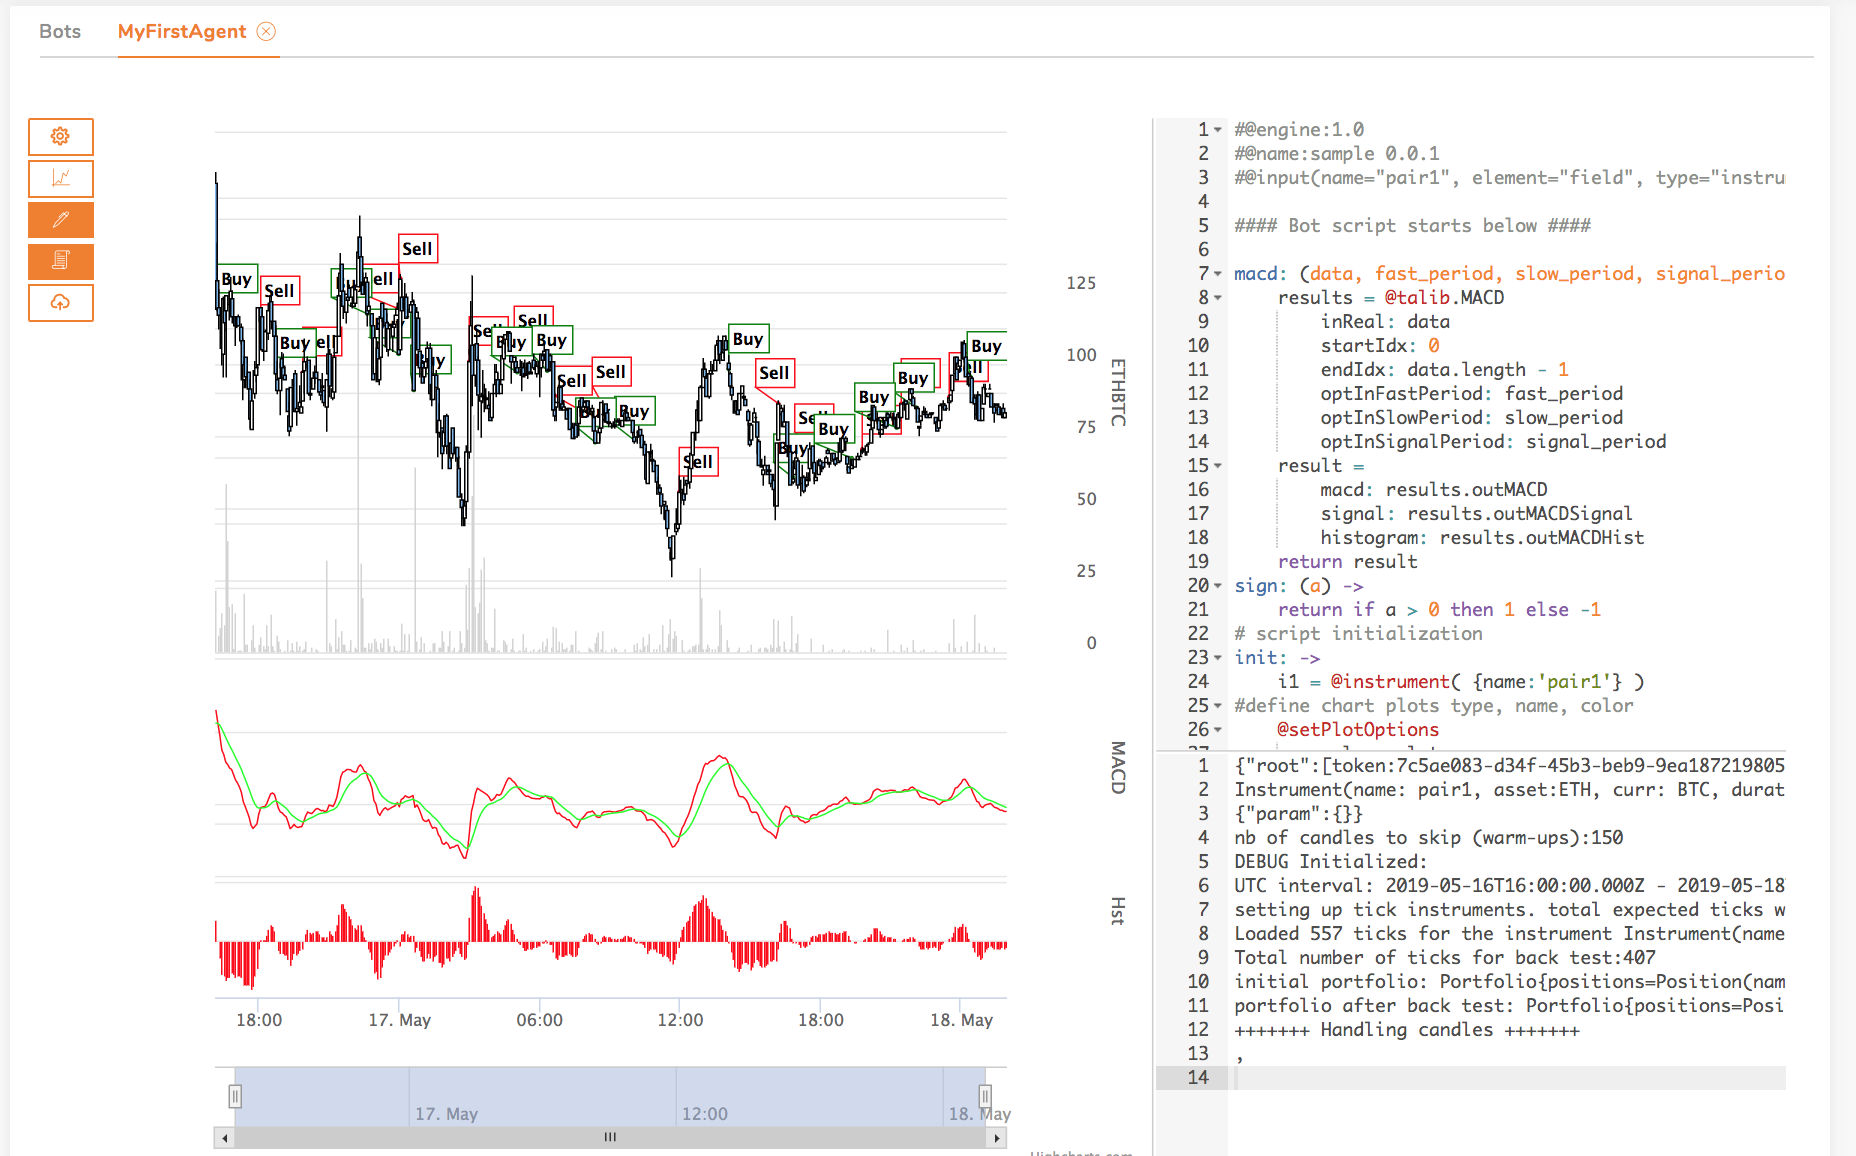
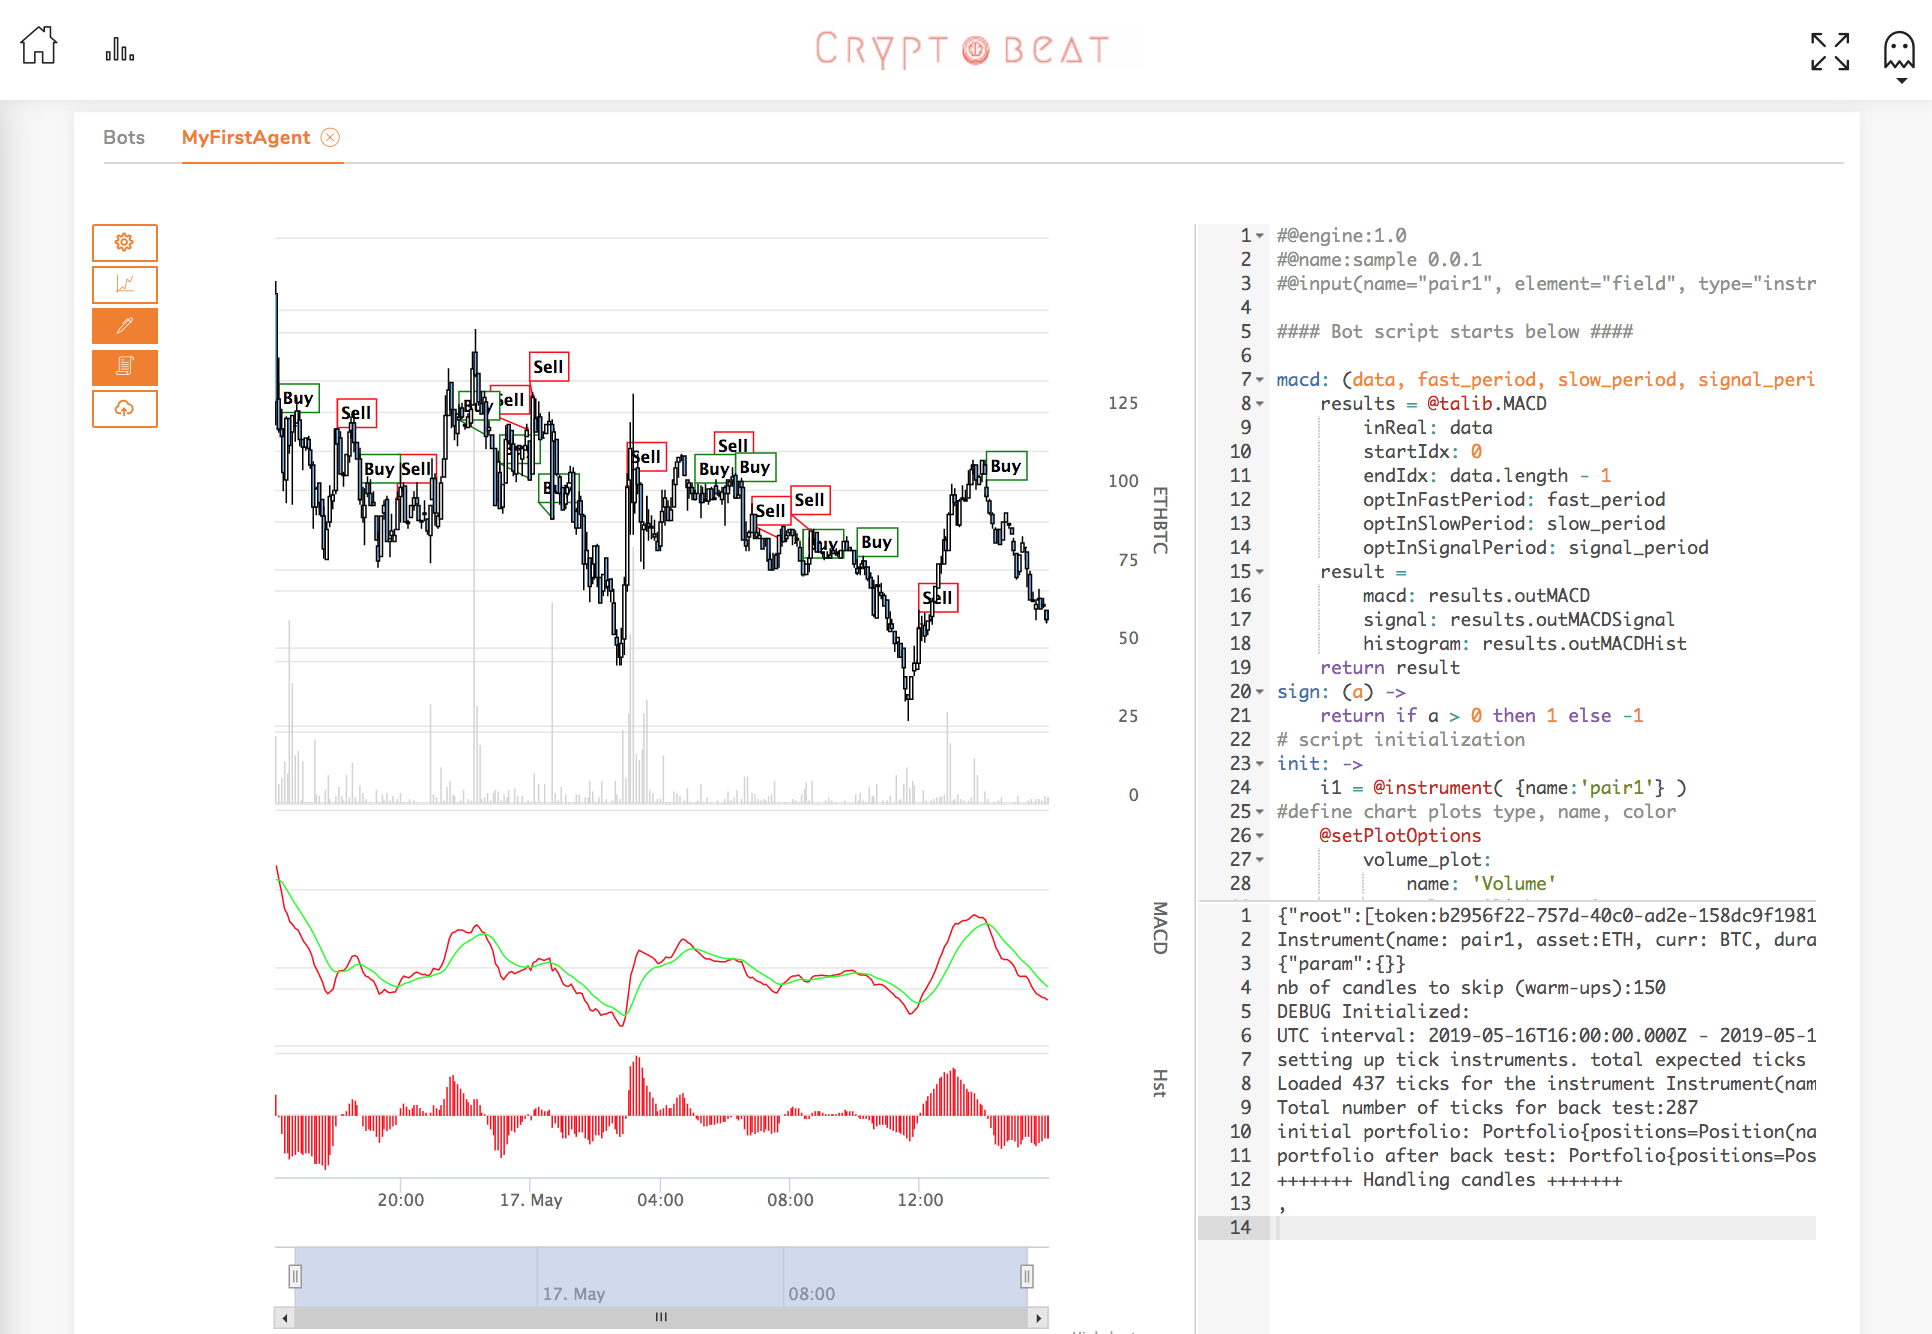
new images

diff --git a/README.md b/README.md
@@ -1,30 +1,30 @@
 # Getting start
 
-One you log in you will the dashboard. In order to work with trading bots you will have to select the marked button.
-![chart](https://github.com/cryptobeat/Strategies/blob/master/pictures/dashboard.png)
-
+Once you log in you will the dashboard. 
+![dashboard](https://github.com/cryptobeat/Strategies/blob/master/pictures/dashboard.png)
+In order to work with trading bots you will have to click on the ![workspace button](https://github.com/cryptobeat/Strategies/blob/master/pictures/tr.png)  button.
 Then you will see your trading agents. They are empty, so you will have to create one and give it a name.
-
 ![chart](https://github.com/cryptobeat/Strategies/blob/master/pictures/new_bot.png)
 ![chart](https://github.com/cryptobeat/Strategies/blob/master/pictures/create_bot.png)
-
 Once the agent is created you will see its logo.
-
 ![chart](https://github.com/cryptobeat/Strategies/blob/master/pictures/bot_created.png)
-
-Next please press the edit button within the same logo and you can edit a script and run backtest.
-You can see the flowwing buttons as well:
+Next please press the edit button within the same logo and you can edit a script and run the backtest.
+You can see the following buttons as well:
+![chart](https://github.com/cryptobeat/Strategies/blob/master/pictures/control_buttons.png)
 - Edit Parameters and time interval
 - Run Backtest 
 - Show Script Editor
 - Show Log output 
 - Save Script (Ctrl/Command-S)
 
-![chart](https://github.com/cryptobeat/Strategies/blob/master/pictures/script.png)
-
-Once the scrip is written you have to set up script parameters such as trading pairs, durations, inital balances as well as script input parameters
-
+The agent workspace consists of tree movable panels:
+- Charts area
+- Coffee Script area
+- Log area
+You can hide/show them using the control buttons or you can change the size of this panels too.
+![chart](https://github.com/cryptobeat/Strategies/blob/master/pictures/bot_panels.png)
+Once a script is written you have to set up script parameters such as trading pairs, durations, inital balances as well as script input parameters
 ![chart](https://github.com/cryptobeat/Strategies/blob/master/pictures/bot_params.png)
 
-Once the paramerets set you can the backtest
+After the paramerets set you can back test your trading algorithm
 ![chart](https://github.com/cryptobeat/Strategies/blob/master/pictures/backtest.png)
